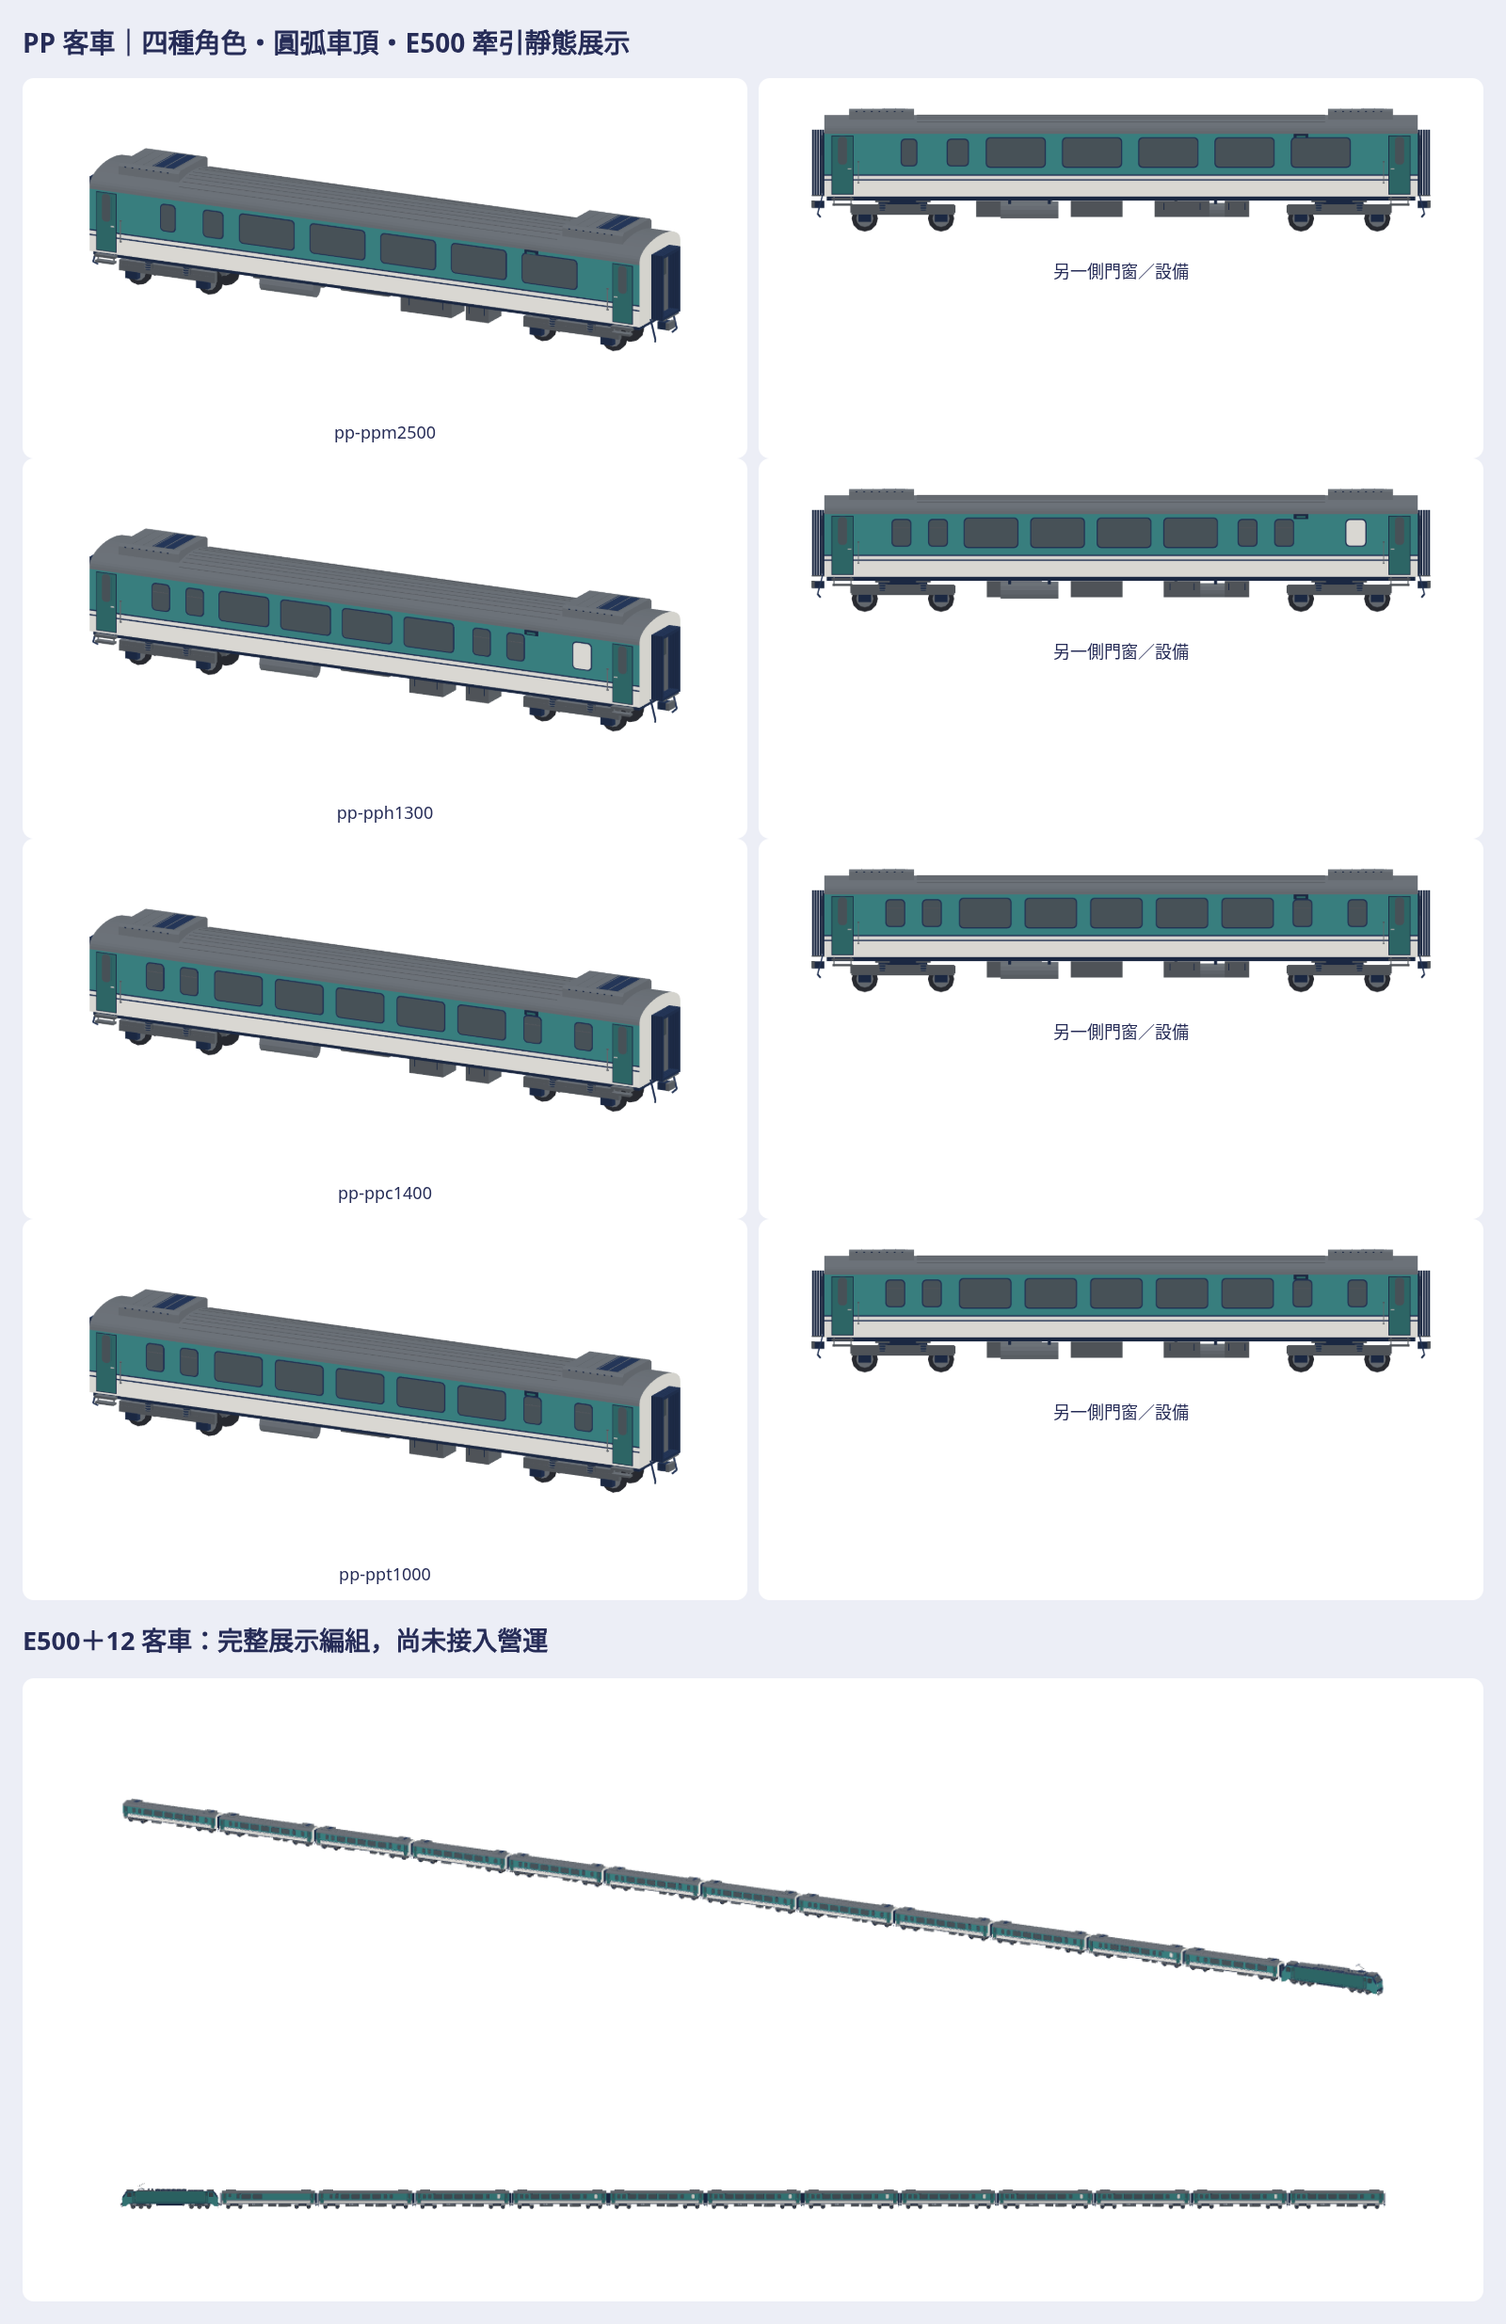
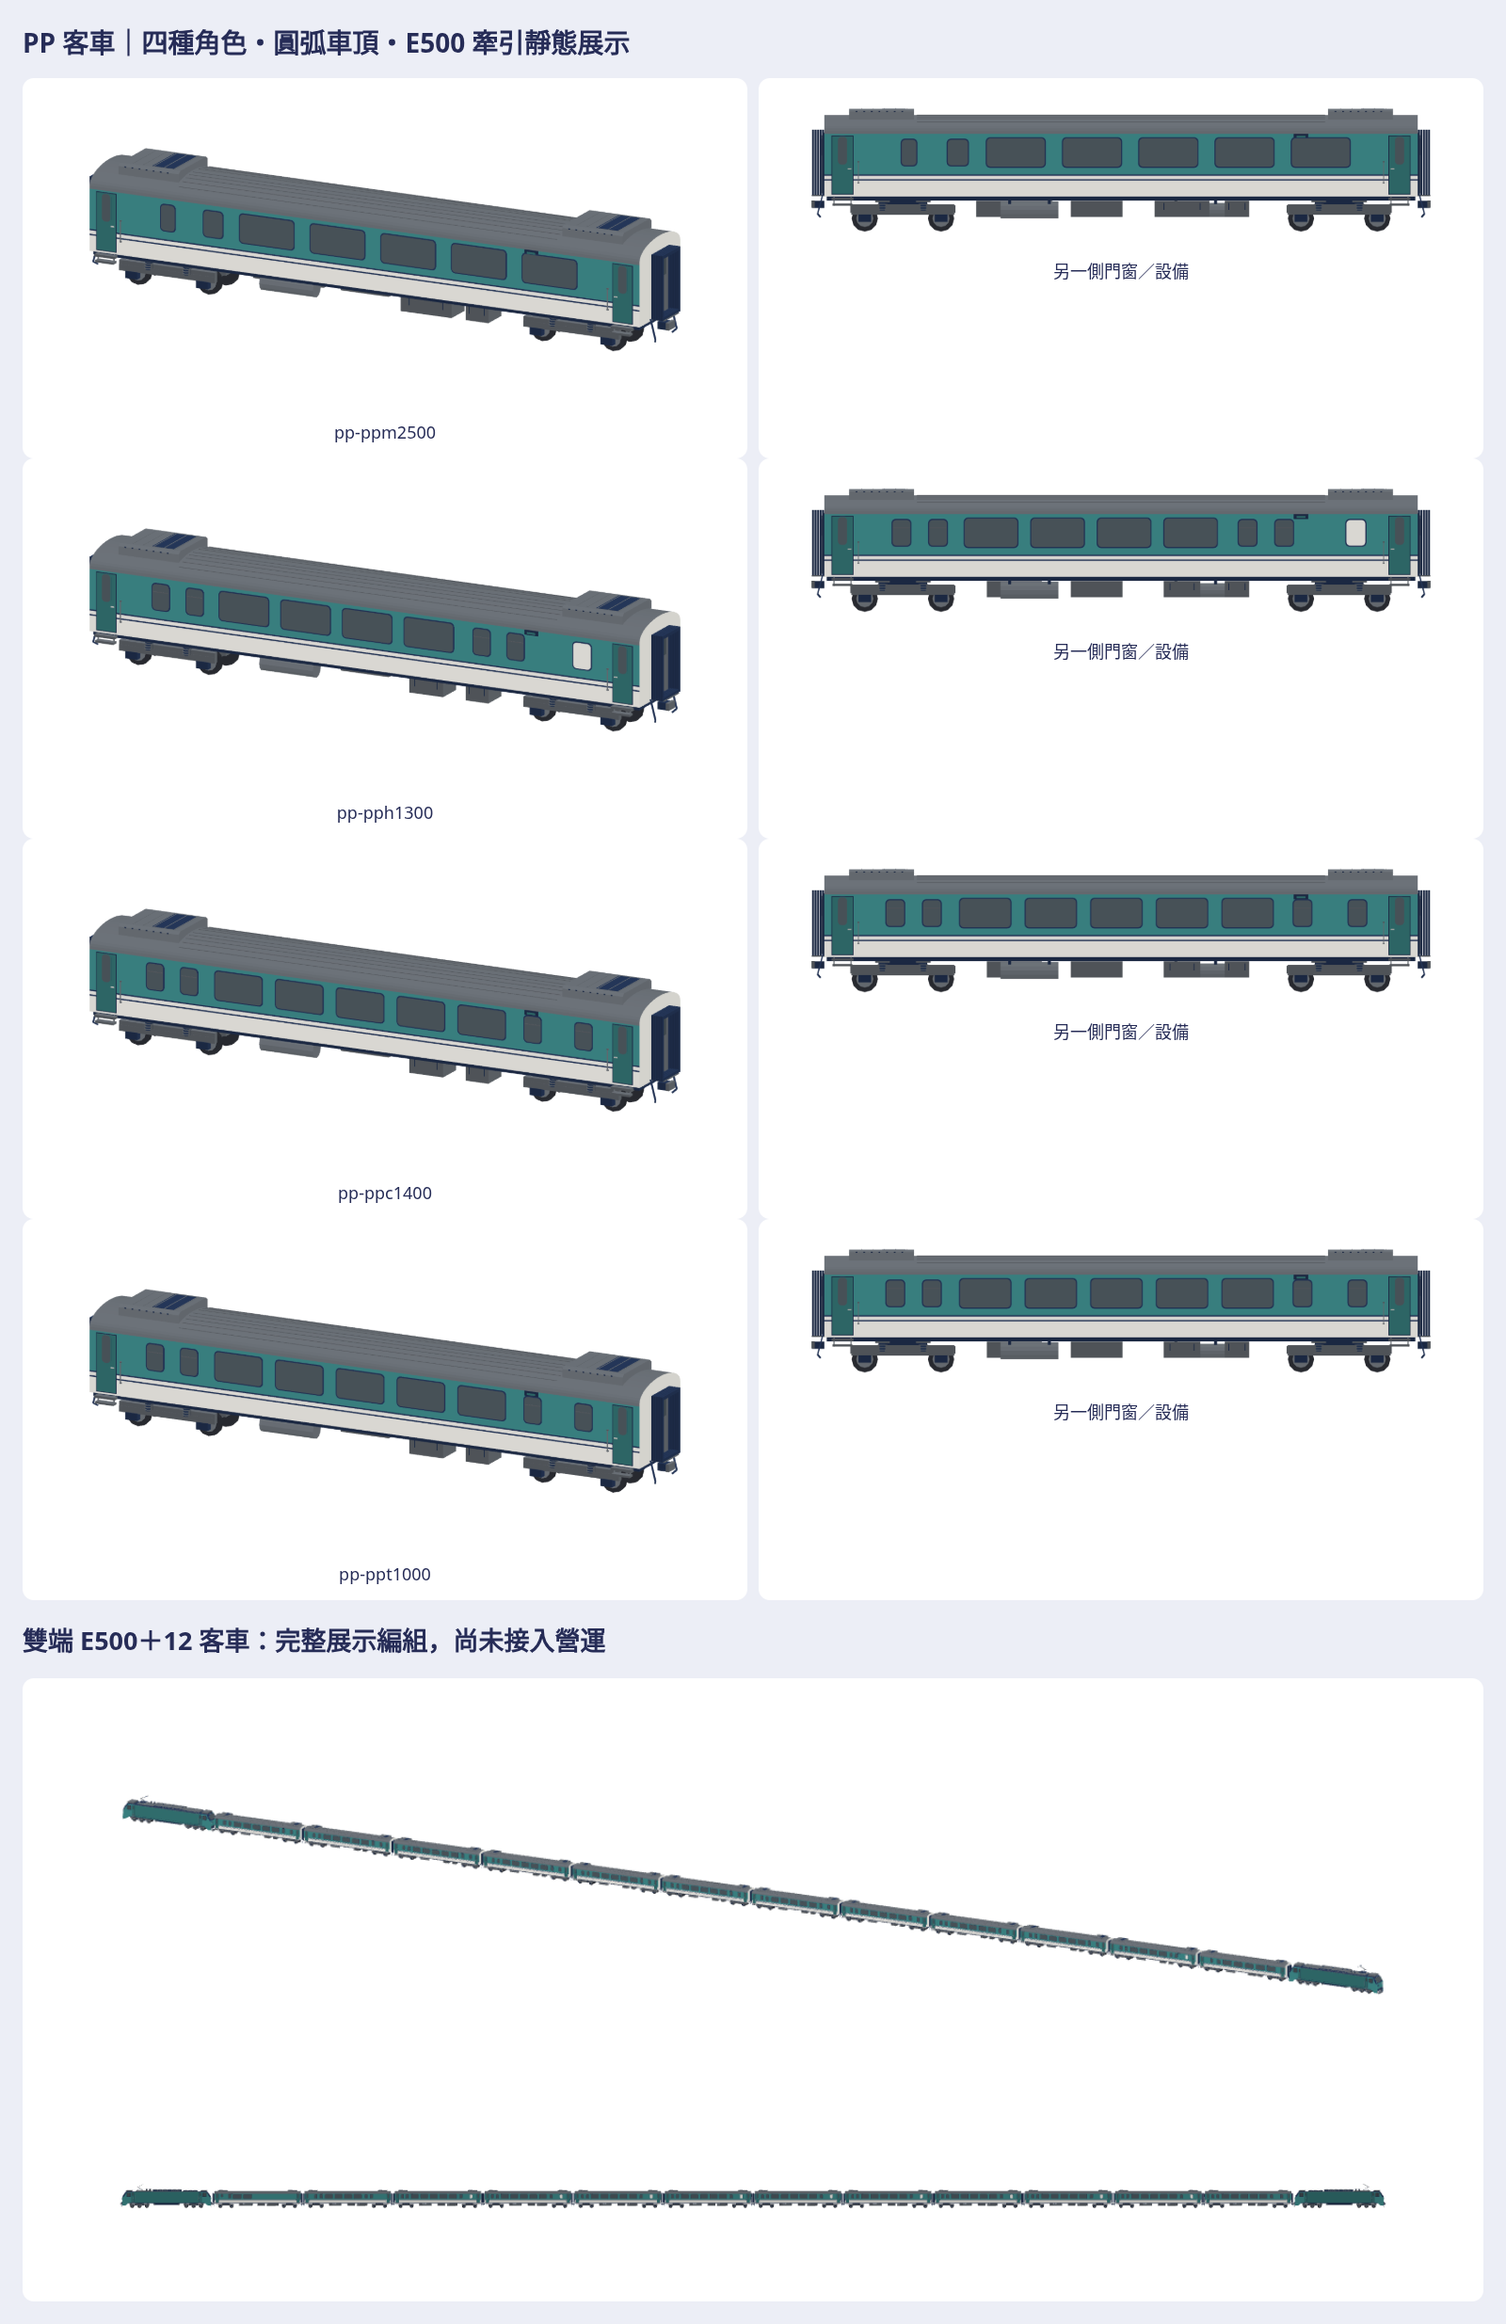
Correct PP display to use accepted E500 locomotives at both ends
Agent: Codex

diff --git a/tools/pp-coaches/export.swift b/tools/pp-coaches/export.swift
@@ -9,10 +9,10 @@ let acceptedE500="85647d0a5e5eaaebdcdee1d5bc512fd931ee6c3a"
 var records:[[String:Any]]=[]
 var nativeUnits:[String:String]=[:]
 var actualModels:[String:Map3DModelPack.Model]=[:]
-func words(_ vertices:[Map3DVertex],translation:Float=0)->Data {
+func words(_ vertices:[Map3DVertex],translation:Float=0,reversed:Bool=false)->Data {
  var raw=Data()
  func word(_ bits:UInt32){let n:UInt32=bits==0x80000000 ? 0:bits;for s:UInt32 in [0,8,16,24]{raw.append(UInt8((n>>s)&255))}}
- for i in stride(from:0,to:vertices.count,by:3){word(vertices[i..<i+3].contains(where:{$0.glows}) ? 1:0);for v in vertices[i..<i+3]{word((v.x+translation).bitPattern);word(v.y.bitPattern);word(v.z.bitPattern);word(v.color)}}
+ for i in stride(from:0,to:vertices.count,by:3){word(vertices[i..<i+3].contains(where:{$0.glows}) ? 1:0);for v in vertices[i..<i+3]{word(((reversed ? -v.x:v.x)+translation).bitPattern);word((reversed ? -v.y:v.y).bitPattern);word(v.z.bitPattern);word(v.color)}}
  return raw
 }
 func encoded(_ model:Map3DModelPack.Model,sourceProducer:String?=nil)throws->Data {
@@ -57,18 +57,20 @@ for far in [false,true] {
  for role in sequence {
   placements.append(["unit":"pp-"+role.rawValue+suffix,"translation":[x,Float(0),Float(0)],"rotation_degrees":0]);x-=Map3DPPPassenger.couplingHalfLength*2
  }
+ placements.append(["unit":"e500"+suffix,"translation":[x+Map3DPPPassenger.couplingHalfLength-10.385,Float(0),Float(0)],"rotation_degrees":180])
  let used=Set(placements.map {$0["unit"] as! String}),units=nativeUnits.filter {used.contains($0.key)}
- let scene:[String:Any]=["format":"M3DAssembly","version":1,"producer_commit":producer,"units":units,"placements":placements,"purpose":"static illustrative E500-hauled PP display; not certified operation or push-pull control"]
+ let scene:[String:Any]=["format":"M3DAssembly","version":1,"producer_commit":producer,"units":units,"placements":placements,"purpose":"static illustrative double-ended E500 PP display; not certified operation or push-pull control"]
  let file="models/\(id).m3dscene.json";try JSONSerialization.data(withJSONObject:scene,options:[.sortedKeys]).write(to:output.appendingPathComponent(file))
  var payload=Data(),lo=[Float.infinity,Float.infinity,Float.infinity],hi=[-Float.infinity,-Float.infinity,-Float.infinity],count=0
  for p in placements {
   let m=actualModels[p["unit"] as! String]!,translation=(p["translation"] as! [Float])[0]
-  payload.append(words(m.vertices,translation:translation));count+=m.triangleCount
-  for v in m.vertices {for (axis,n) in [v.x+translation,v.y,v.z].enumerated(){lo[axis]=min(lo[axis],n);hi[axis]=max(hi[axis],n)}}
+  let reversed=(p["rotation_degrees"] as! Int)==180
+  payload.append(words(m.vertices,translation:translation,reversed:reversed));count+=m.triangleCount
+  for v in m.vertices {for (axis,n) in [(reversed ? -v.x:v.x)+translation,reversed ? -v.y:v.y,v.z].enumerated(){lo[axis]=min(lo[axis],n);hi[axis]=max(hi[axis],n)}}
  }
  try payload.write(to:output.appendingPathComponent(id+"-expected.bin"))
  records.append(["id":id,"name":id,"native":file,"native_kind":"assembly","category":"formation","family":far ? "far":"pp","triangles":count,"minimum":lo,"maximum":hi])
- assemblyRows.append(["id":id,"placements":placements,"shared_origin":"E500 centre; +X forward; rail Z=0","coach_coupler_half_length_m":Map3DPPPassenger.couplingHalfLength,"coach_body_half_length_m":Map3DPPPassenger.bodyHalfLength,"coach_gangway_half_length_m":Map3DPPPassenger.gangwayHalfLength,"rotation":"all 0 degrees; independent unit +X points toward locomotive","note":"E500 rear coupler tip X=-10.385m; coach tips touch. E500 has no passenger gangway; first coach gangway ends at its own coach end. Four independent roles: PPM2500 multi-function car, PPH1300 accessible car, nine PPT1000 standard coaches, PPC1400 conductor-room coach. Illustrative ordering; not a certified E500 operating consist."])
+ assemblyRows.append(["id":id,"placements":placements,"shared_origin":"E500 centre; +X forward; rail Z=0","coach_coupler_half_length_m":Map3DPPPassenger.couplingHalfLength,"coach_body_half_length_m":Map3DPPPassenger.bodyHalfLength,"coach_gangway_half_length_m":Map3DPPPassenger.gangwayHalfLength,"rotation":"front locomotive 0 degrees; rear locomotive 180 degrees; coaches 0 degrees","note":"E500 at both ends; rear instance rotated 180 degrees, original accepted unit unmodified. Coupler tips touch. E500 has no passenger gangway; both outer coach gangways end at their own ends. Four independent roles: PPM2500 multi-function car, PPH1300 accessible car, nine PPT1000 standard coaches, PPC1400 conductor-room coach. Illustrative ordering; not a certified E500 operating consist."])
 }
 if let previous=ProcessInfo.processInfo.environment["PP_PREVIOUS"] {
  let base=URL(fileURLWithPath:previous),old=try JSONSerialization.jsonObject(with:Data(contentsOf:base.appendingPathComponent("manifest.json"))) as! [String:Any]

diff --git a/tools/pp-coaches/scene.js b/tools/pp-coaches/scene.js
@@ -10,9 +10,10 @@ export function assemblyNative(buffer) {
  const out=new ArrayBuffer(20+count*52),d=new DataView(out);new Uint8Array(out).set([77,51,68,77,1,0,0,0]);d.setUint32(8,count,true);d.setUint32(12,2,true);new Uint8Array(out).set([123,125,0,0],16);
  let dest=20;
  for(const p of scene.placements){
+  const turn=p.rotation_degrees??0;if(turn!==0&&turn!==180)throw Error("Unsupported rotation");const sign=turn===180?-1:1;
   const b=units.get(p.unit),s=new DataView(b.buffer),n=s.getUint32(8,true),start=16+Math.ceil(s.getUint32(12,true)/4)*4;
   new Uint8Array(out,dest,n*52).set(b.subarray(start));
-  for(let i=0;i<n;i++)for(let j=0;j<3;j++)for(let axis=0;axis<3;axis++){const at=dest+i*52+4+j*16+axis*4;d.setFloat32(at,Math.fround((axis===0?Math.fround(d.getFloat32(at,true)*Math.fround(p.scale_x??1)):d.getFloat32(at,true))+Math.fround(p.translation[axis])),true);}
+  for(let i=0;i<n;i++)for(let j=0;j<3;j++)for(let axis=0;axis<3;axis++){const at=dest+i*52+4+j*16+axis*4;d.setFloat32(at,Math.fround((axis===0?Math.fround(d.getFloat32(at,true)*Math.fround((p.scale_x??1)*sign)):Math.fround(d.getFloat32(at,true)*(axis===1?sign:1)))+Math.fround(p.translation[axis])),true);}
   dest+=n*52;
  }
  return out;

diff --git a/docs/art/pp-coaches-2026-10-26/README.md b/docs/art/pp-coaches-2026-10-26/README.md
@@ -64,6 +64,10 @@ Swift 只用6.4、warnings-as-errors與相關測試；最新同提交 CI另列 P
 
 ## 本輪實測結果
 
-Linux Swift6.4 warnings-as-errors build與46項相關測試已跑（1項既有成本skip，0失敗）。14件原生／組裝與GLB精確比對、八件PP有向封閉／正體積／法線、缺面反面反例、兩編組Swift/JS payload及車間錯位反例通過。近景PP 7,024–8,184三角，遠景3,328–3,944；展示全列近106,752／遠50,616三角，不宣稱真機成本已驗。八件每片玻璃向外射線與背襯、每車八胎貼軌與淨空、實體支承取樣及浮／埋玻璃、升輪／浮架反例已驗；窄窗原有橫分隔只排除實際薄零件，沒有排除車殼或寬框。修過側架空隙與遠景踏階／冷氣頂高後全量重出。
+Linux Swift6.4 warnings-as-errors build與46項相關測試已跑（1項既有成本skip，0失敗）。14件原生／組裝與GLB精確比對、八件PP有向封閉／正體積／法線、缺面反面反例、兩編組Swift/JS payload及車間錯位反例通過。近景PP 7,024–8,184三角，遠景3,328–3,944；展示全列近116,716／遠54,608三角，不宣稱真機成本已驗。八件每片玻璃向外射線與背襯、每車八胎貼軌與淨空、實體支承取樣及浮／埋玻璃、升輪／浮架反例已驗；窄窗原有橫分隔只排除實際薄零件，沒有排除車殼或寬框。修過側架空隙與遠景踏階／冷氣頂高後全量重出。
 
 實際全pack捕獲比對：213個舊模型完整位置／法線／顏色／layer payload保持，僅`set-pushPull-car`預期改變，新增8獨立PP與2個far set單元。E1000原head及far複用head相同，E500CK/MINGRI/STAR全部舊組件保持；E500及EMU配方也分別同固定已接受producer。Blender4.3.2獨立匯入14件GLB通過。完整下載／PNG／ZIP逐檔結果存私包verification，最新同head CI及尚未完成的裝置驗證分列draft PR。
+
+## 雙端編組更正
+
+使用者指出上一版少了尾端E500，撤回上一版「完整展示編組」判定。新展示為E500—12節PP客車—E500，尾機為同一已接受原生單元旋轉180°，不改任何單車配方/payload。首尾車鉤都驗接面，兩機車端均不虛構貫通道；刪除尾機與尾機朝向錯誤反例須拒收。真正單端前版是公開11a70d3c／私庫cd225c3b（Git固定版本完整保留），不是重造差版。此修正是展示排列，不代表已查證特定實車班次之12客車角色順序或E500推拉控制；原型參考PP產品圖為兩端E1000。遊戲既有pushPull兩端E1000與全部營運分派保持。

diff --git a/docs/HANDOFF.md b/docs/HANDOFF.md
@@ -1,6 +1,6 @@
 # 交接
 
-> Codex PP客車（#1282）：[來源／外觀／營運與重建交接](art/pp-coaches-2026-10-26/README.md)。四種PP近遠獨立配方及已接受E500第三版＋12客車完整靜態展示。只有原`pushPull`接點中間客車改PPT1000，E1000兩端、可變節數、列車包／classic／解鎖與回退保持；PPH/PPC/PPM未逐車接營運，E500＋PP未接E500營運。E500CK/MINGRI/STAR客車與既有模型實際payload保護。公開唯一總覽，完整素材／viewer／ZIP在互鏈私有draft；最新同提交CI看PR，不以Linux靜態驗證當真機／動畫／推拉控制。GameCore、存檔與fixtures不動，不合併／auto-merge／TestFlight。
+> Codex PP客車（#1282）：[來源／外觀／營運與重建交接](art/pp-coaches-2026-10-26/README.md)。四種PP近遠獨立配方及雙端已接受E500第三版＋12客車完整靜態展示（更正11a70d3c漏尾機，尾端同原生旋轉180°）。只有原`pushPull`接點中間客車改PPT1000，E1000兩端、可變節數、列車包／classic／解鎖與回退保持；PPH/PPC/PPM未逐車接營運，E500＋PP未接E500營運。E500CK/MINGRI/STAR客車與既有模型實際payload保護。公開唯一總覽，完整素材／viewer／ZIP在互鏈私有draft；最新同提交CI看PR，不以Linux靜態驗證當真機／動畫／推拉控制。GameCore、存檔與fixtures不動，不合併／auto-merge／TestFlight。
 
 > Codex E500 原生重建第三版（issue #1255）：[自有外觀／營運接點／重建交接](art/e500-refresh-2026-10-25/README.md)。使用者圈選中央格柵排與正面過寬平台：僅修屋頂為連續六格外殼、收窄降低並貼合真車頂；68913f4f第二版完整保持，私庫revision-3全量重出。非屋頂與弓機構三角bytes保護。僅 E500CK／MINGRI／STAR 專用近遠景；其他包／解鎖／回退與 GameCore 不動。完整素材私庫、公開一張總覽，互鏈 draft PR 與同head CI 見 issue；靜態幾何不等於真機動畫。
 

diff --git a/tools/pp-coaches/README.md b/tools/pp-coaches/README.md
@@ -43,7 +43,7 @@ python3 tools/pp-coaches/bundle.py OUT PRODUCER_COMMIT
 
 最後核 ZIP member 仍等於 live bytes；瀏覽器檢查會更新 `verification.json`，因此若在打包後重跑，必須重包。ZIP hash 記在包外 `package-verification.json`，不遞迴放進自己。
 
-原生公尺 +X前／+Y左／+Z上，輪底 Z=0；GLB=(x,z,-y)。每個原生單元仍遵守 M3DM 15,000 三角上限；完整編組使用包含合法單元的 `M3DAssembly` JSON，只供靜態展示／轉 GLB，不冒充遊戲可載入的超限單一檔。Swift 的完整三角 payload 與 JS 組裝逐 bytes 比較；單元順序、0°朝向、實際平移與共同軌面在 manifest `assembly`。E500 與第一客車只有連結器相接，不加入虛構旅客貫通道。
+原生公尺 +X前／+Y左／+Z上，輪底 Z=0；GLB=(x,z,-y)。每個原生單元仍遵守 M3DM 15,000 三角上限；完整編組使用包含合法單元的 `M3DAssembly` JSON，只供靜態展示／轉 GLB，不冒充遊戲可載入的超限單一檔。Swift 的完整三角 payload 與 JS 組裝逐 bytes 比較；單元順序、前機0°／尾機180°朝向、實際平移與共同軌面在 manifest `assembly`。E500 與第一客車只有連結器相接，不加入虛構旅客貫通道。
 
 `verify.mjs` 驗輸出幾何與刪面／反面／錯位反例；`support-audit.py` 驗玻璃支承與向外可見性、輪底、輪組淨空及可見故障反例。抽樣支承／射線不是全碰撞或動畫證明。`capture`／`coexistence` 核對保護模型的實際 payload，而非只有 bounds。Blender 獨立讀 GLB；Pillow 完整解碼透明 PNG／留白；Chromium 實際載入、七向、旋轉、縮放、原生／GLB／PNG／ZIP下載比 SHA，另驗內嵌離線 viewer。
 
